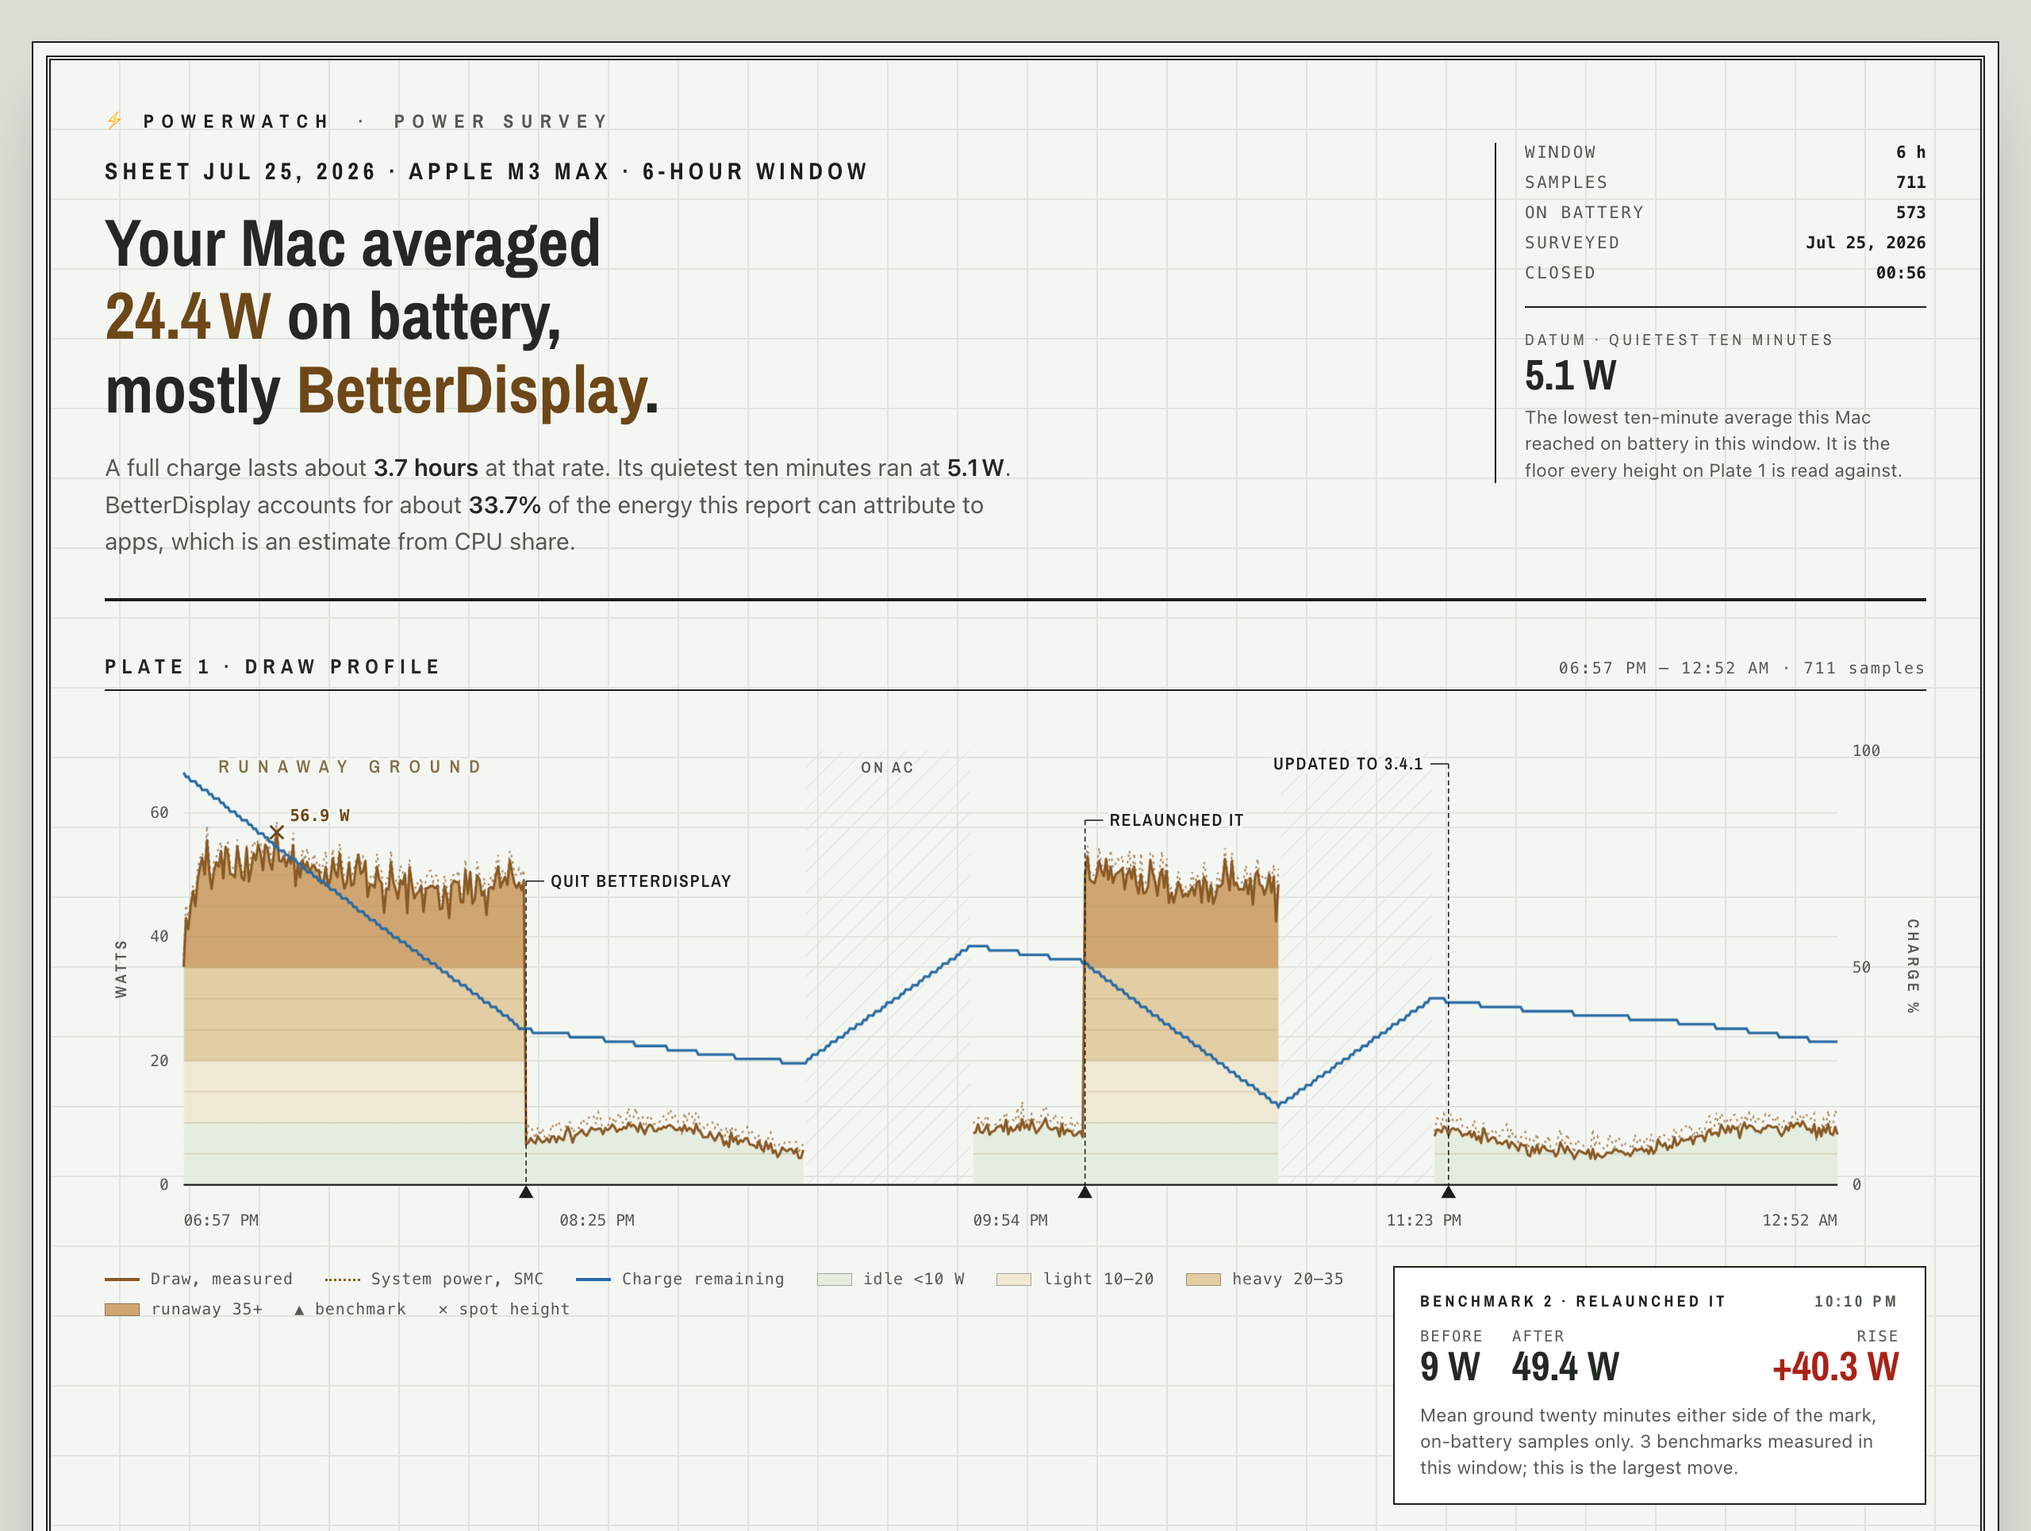
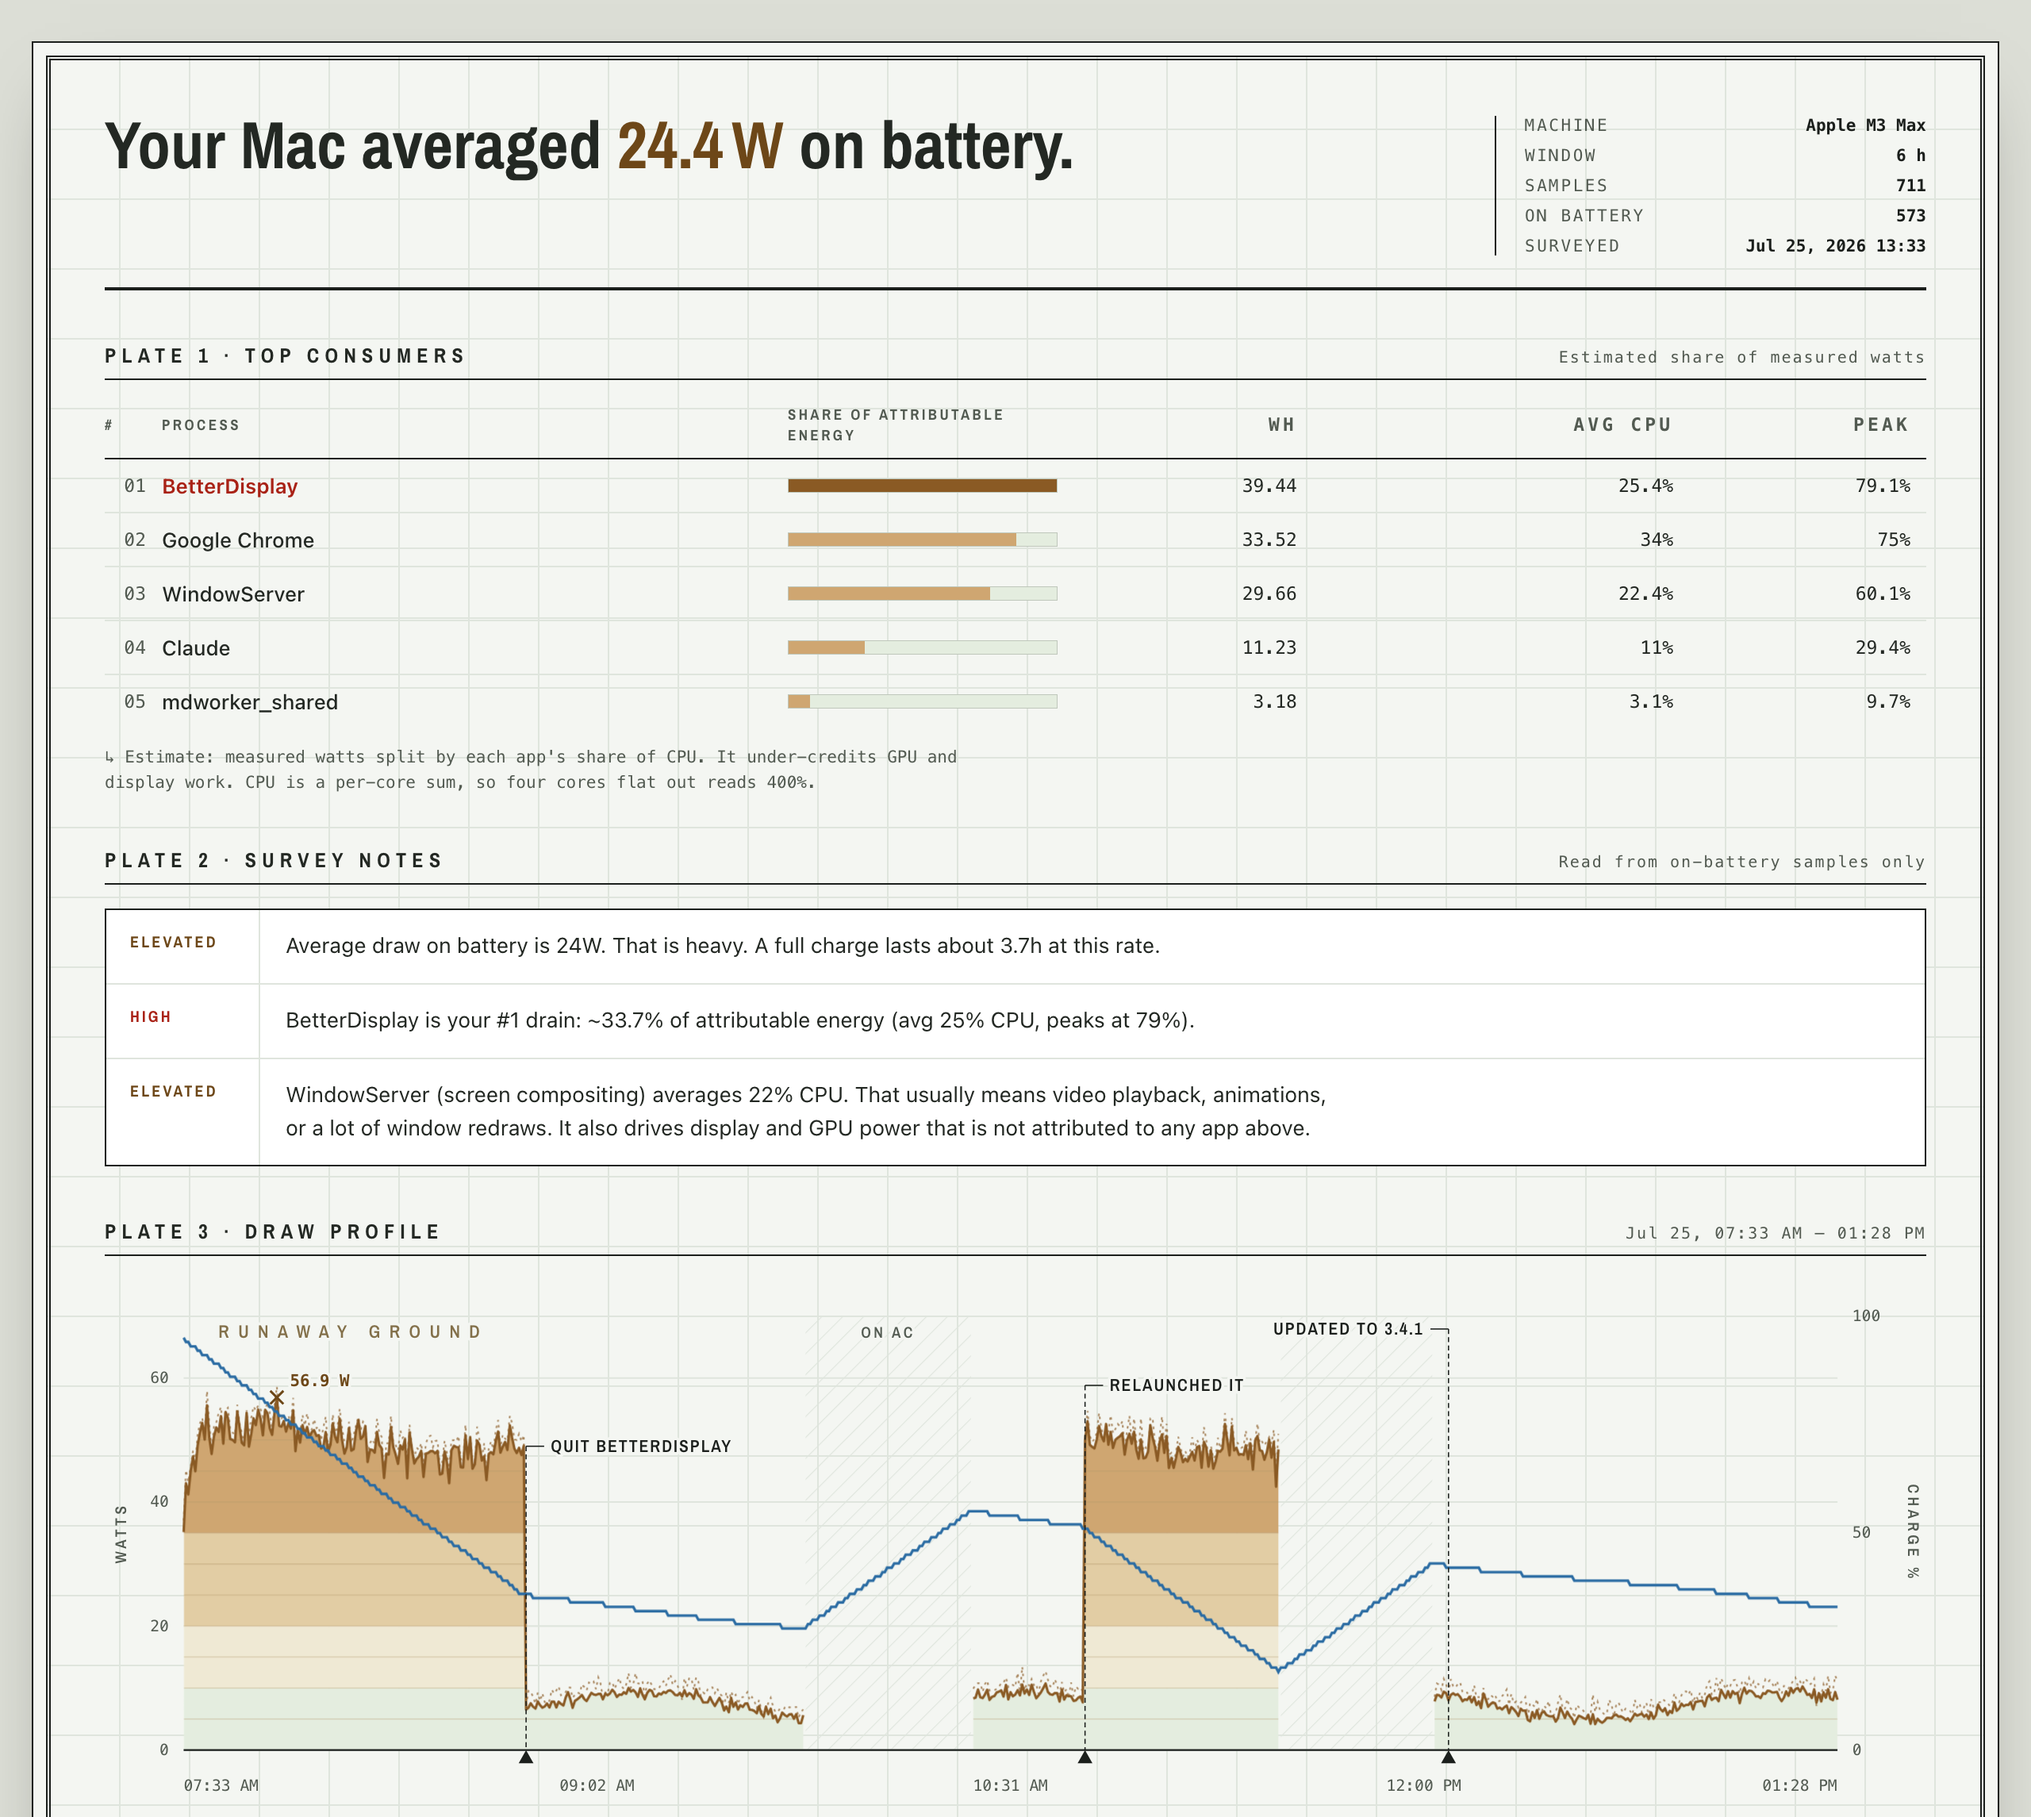
powerwatch: new report screenshots and matching lead copy
Synced from the powerwatch repo after the report was cut down: one-line
heading, consumers before the trace, eight rows instead of twelve.

diff --git a/powerwatch/index.html b/powerwatch/index.html
@@ -327,8 +327,8 @@ footer{border-top:1px solid var(--line);padding:20px 0 48px;font-size:13px;
       long you have left. Real wording, real thresholds.</p>
     </div>
     <div class="reveal">
-      <div class="media"><div class="art tall"><img src="assets/report-trace.png" width="2560" height="820"
-        alt="Battery and power trace chart with experiment markers"></div></div>
+      <div class="media"><div class="art tall"><img src="assets/report-trace.png" width="2560" height="1080"
+        alt="The draw profile with experiment markers and a benchmark card reading plus 40.3 watts"></div></div>
       <h3>Know the fix actually worked</h3>
       <p>Mark the timeline, change one thing, and see the before and after.
       Or hand the logs to an AI. That's how the story below ended.</p>
@@ -338,10 +338,10 @@ footer{border-top:1px solid var(--line);padding:20px 0 48px;font-size:13px;
 
 <section class="wrap">
   <h2 class="reveal">The whole story in one report</h2>
-  <p class="lead reveal">Findings ranked by severity, the power trace over
-  time, and every app's share of the energy.</p>
-  <div class="shot reveal"><img src="assets/report-top.png" width="2560" height="1930"
-    alt="The PowerWatch report: a survey sheet averaging 24.4 watts on battery, with findings naming BetterDisplay as the top drain" fetchpriority="high"></div>
+  <p class="lead reveal">Every app's share of the energy, findings ranked by
+  severity, and the power trace over time.</p>
+  <div class="shot reveal"><img src="assets/report-top.png" width="2560" height="2290"
+    alt="The PowerWatch report: a survey sheet headed 'Your Mac averaged 24.4 W on battery', with BetterDisplay top of the consumers table and named as the number one drain" fetchpriority="high"></div>
   <p class="cap">The report exactly as PowerWatch renders it. Demonstration
   data, reconstructing the investigation below.</p>
 </section>
@@ -359,7 +359,7 @@ footer{border-top:1px solid var(--line);padding:20px 0 48px;font-size:13px;
       there it was: a bug in an outdated BetterDisplay was holding the
       display pipeline in EDR mode, quietly burning 50 watts.</p>
     </div>
-    <div class="shot reveal"><img src="assets/report-trace.png" width="2560" height="820"
+    <div class="shot reveal"><img src="assets/report-trace.png" width="2560" height="1080"
       alt="The power trace: draw falls from about 50 watts to 7 when BetterDisplay is quit, returns when relaunched, stays low after the update"></div>
     <p class="cap">The proof, reconstructed with demonstration data. Quit it
     and the draw fell to 7 watts. Relaunched it and the drain came back.
